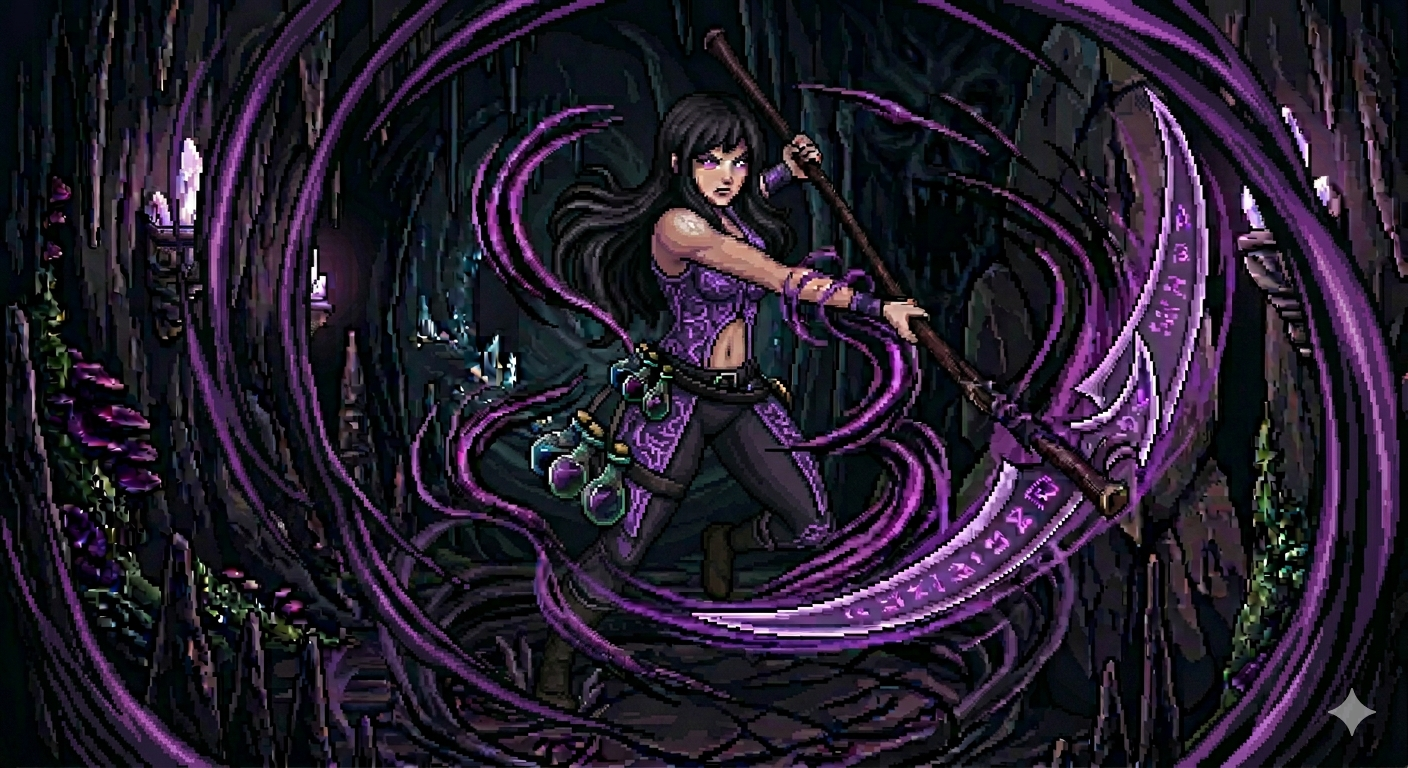
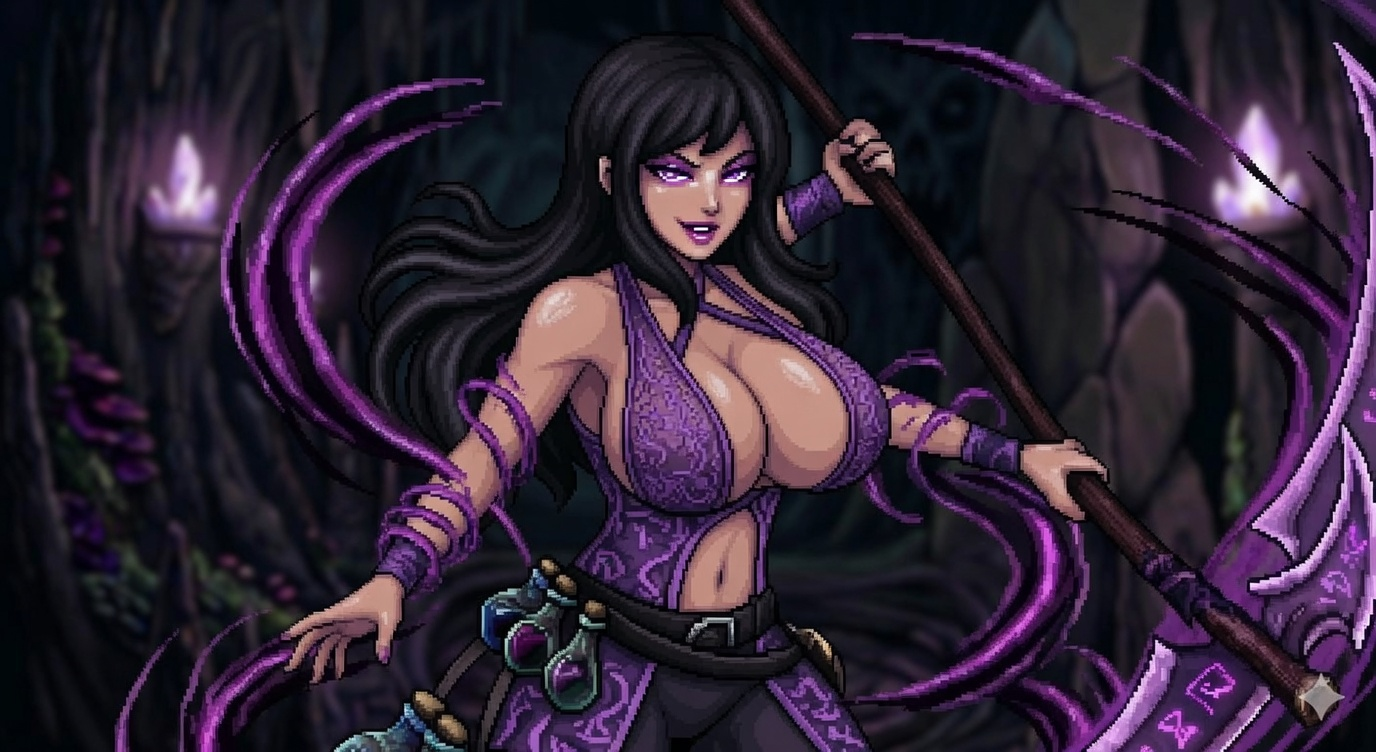
RPG: 일러 5종 교체 + 5스테이지 「태초의 어둠」 보스 추가 + TRUE ENDING
[일러 교체]
- 사신 reaper.png — 보랏빛 낫 + 검은머리 사신 (신규 일러)
- 마녀 witch.png — 은발 + 보랏빛 화염 (신규 일러)
- 상점 merchant.png — 푸른 크리스탈 가게 + 자홍색 드레스 (신규 일러)
- 부상 mage-wounded.png — 무릎 꿇은 부상 일러 (50%↓ 컷인용 신규)

[5스테이지 「태초의 어둠」 — 진짜 어둠]
- 신규 ENEMIES.darkOrigin — hp 520, atk 36, sprite dark-origin.png
- 4층 엔딩 「와다오」 떡밥의 정체 — 이그니아의 어머니 자청
- BOSS_STORIES.darkOrigin
  · intro 11장면: 이그니아의 「불꽃」을 쥐여준 자, 어머니라 자청, 회수 시도
  · outro 5장면: 어머니 부정 + 어둠 완전 소멸 + 새벽빛
- 보스 스킬 3종:
  · 태초의 속삭임 (interval 3) — 마법 봉인 2턴 + 출혈 (maxHp 7%)
  · 어둠의 손길 (interval 5) — hero HP 25% 데미지 + 그만큼 자기 회복 (불꽃 회수)
  · 종말의 의식 (HP 40% 1회) — atk×2.0 데미지 + 사형선고 5턴 즉시 발동
- ENEMY_POOLS 5층 (normal/elite) 추가

[TRUE ENDING]
- 기존 「TO BE CONTINUED」 (4층 끝) 제거
- 새 TRUE_ENDING — 5층 클리어 후 6장면 컷씬:
  · 태초의 어둠 소멸 → 어머니 부정 → 동굴 끝 새벽빛 → "정말로 끝이다"
- 결과 화면: TRUE ENDING / 도달 층 5 / 5

[기타]
- 층 cap 4 → 5
- SPEAKERS.darkOrigin / SW 프리캐시 / VERSION/캐시 v57-floor5-darkorigin

diff --git a/rpg/game.js b/rpg/game.js
@@ -5,7 +5,7 @@
 const $ = id => document.getElementById(id);
 
 // 빌드 버전 — sw.js의 캐시 키와 같이 올려준다
-const VERSION = 'v56-skill-tree-visual';
+const VERSION = 'v57-floor5-darkorigin';
 
 // ===== 영웅 데이터 =====
 const HEROES = [
@@ -85,6 +85,8 @@ const ENEMIES = {
   dragon:   { name: '심연의 드래곤',   hp: 380, atk: 30, emoji: '🐉', boss: true, sprite: '../assets/bosses/dragon-human.png' },
   // 4층 보스 페이즈 2 — 진정한 드래곤 모습
   'dragon-true': { name: '심연의 드래곤', hp: 460, atk: 36, emoji: '🐉', boss: true, sprite: '../assets/bosses/dragon-true.png' },
+  // 5층 보스 — 「태초의 어둠」 (진짜 어둠 — 4층 엔딩의 속삭임)
+  darkOrigin: { name: '태초의 어둠', hp: 520, atk: 36, emoji: '🌑', boss: true, sprite: '../assets/bosses/dark-origin.png' },
 };
 
 // 층별 등장 풀 — 새 몬스터가 누적되며 점차 강력해짐
@@ -94,12 +96,14 @@ const ENEMY_POOLS = {
     2: ['orc', 'rogue', 'shield', 'drone', 'wraith', 'assassin', 'cultist'],
     3: ['rogue', 'drone', 'wraith', 'assassin', 'cultist', 'imp', 'reaperMinion', 'demon', 'charmedSoul'],
     4: ['imp', 'reaperMinion', 'demon', 'charmedSoul', 'drake', 'abyssWalker', 'shadowBeast', 'voidPriest'],
+    5: ['demon', 'drake', 'abyssWalker', 'shadowBeast', 'voidPriest'],
   },
   elite: {
     1: ['knight', 'shield', 'drone'],
     2: ['knight', 'darkKnight', 'shield', 'drone'],
     3: ['knight', 'darkKnight', 'lichApprentice'],
     4: ['darkKnight', 'lichApprentice', 'wyvern'],
+    5: ['darkKnight', 'lichApprentice', 'wyvern'],
   },
 };
 
@@ -469,6 +473,7 @@ const SPEAKERS = {
   reyna:  '../assets/heroes/merchant.png',
   luna:   '../assets/heroes/luna.png',
   reaper: '../assets/bosses/reaper.png',
+  darkOrigin: '../assets/bosses/dark-origin.png',
 };
 
 // ===== 인연각성 (필살기) =====
@@ -698,6 +703,41 @@ const BOSS_SKILLS = {
         log('☠ 사형선고 — 5턴 후 사형 집행 (보스를 처치하면 해제)', 'enemy');
       } },
   ],
+  darkOrigin: [
+    // 태초의 속삭임 — 마법 봉인 + 출혈 동시
+    { name: '태초의 속삭임', interval: 3,
+      quote: '"…잠들어. 모든 것은 — 끝이야."',
+      apply(b, r) {
+        b.heroSkillBlock = 2;
+        const dmg = Math.max(8, Math.floor(r.maxHp * 0.07));
+        b.heroBleed = { dmg, turns: 3 };
+        log(`🌑 태초의 속삭임 — 2턴 마법 봉인 + 매 턴 ${dmg} 출혈`, 'enemy');
+      } },
+    // 어둠의 손길 — 현재 HP 25% 데미지 + 그만큼 보스 회복
+    { name: '어둠의 손길', interval: 5,
+      quote: '"네 불꽃 — 내가 — 다시 거두어 가지."',
+      apply(b, r) {
+        const dmg = Math.max(1, Math.floor(r.hp * 0.25));
+        log(`🖤 어둠의 손길 → ${dmg} (불꽃 회수)`, 'enemy');
+        dealDamageToHero(dmg);
+        const me = b.enemies.find(e => e.id === 'darkOrigin');
+        if (me && me.hp > 0) {
+          me.hp = Math.min(me.maxHp, me.hp + dmg);
+          showDmgNum('enemy', dmg, 'heal');
+          log(`태초의 어둠 회복 → +${dmg}`, 'enemy');
+          refreshBattleUI();
+        }
+      } },
+    // 종말의 의식 — HP 40% 1회. 큰 광역 데미지 + 사형선고 즉시 부여
+    { name: '종말의 의식', hpThreshold: 0.4, oneShot: true,
+      quote: '"이 세계는 — 너와 함께 — 사라진다."',
+      apply(b, r) {
+        const dmg = Math.round(b.enemies.find(e => e.id === 'darkOrigin').atk * 2.0);
+        log(`🌑 종말의 의식 → ${dmg} + 사형선고 발동`, 'enemy');
+        dealDamageToHero(dmg);
+        if (game.run.hp > 0) b.deathSentence = 5;
+      } },
+  ],
   'dragon-true': [
     { name: '심연의 숨결', interval: 3,
       quote: '"어둠 속으로 — 가라앉아라."',
@@ -840,10 +880,49 @@ const BOSS_STORIES = {
       ],
     },
   },
+  // 5층 — 태초의 어둠 (진짜 어둠)
+  darkOrigin: {
+    intro: [
+      { img: '../assets/story/prologue-1-darkness.png',
+        text: '드래곤이 사라진 자리 — 그러나 동굴은 아직 끝나지 않았다.\n\n바닥의 균열이 입을 벌리고, 더 깊은 어둠이 입김을 토한다.' },
+      { img: '../assets/bosses/dark-origin.png',
+        text: '그 안에서 — 후드를 깊이 눌러쓴 한 여인이 천천히 걸어 나온다.\n그녀의 뒤로, 거대한 해골이 음영처럼 떠올라 그녀를 굽어본다.' },
+      { speaker: 'darkOrigin',
+        text: '태초의 어둠 — "어서 오렴, 작은 불꽃아."' },
+      { speaker: 'ignia',
+        text: '이그니아 — "…너는, 그자인가."' },
+      { speaker: 'darkOrigin',
+        text: '태초의 어둠 — "후훗, 「그자」… 라고 — 다들 그렇게 부르더구나.\n나는 — 너의 어머니."' },
+      { speaker: 'ignia',
+        text: '이그니아 — "…뭐?"' },
+      { speaker: 'darkOrigin',
+        text: '태초의 어둠 — "네 손끝의 그 불꽃 — 내가 너에게 쥐여준 것이지.\n어둠을 태우라고 보낸 — 가장 작고, 가장 뜨거운 잔재."' },
+      { speaker: 'darkOrigin',
+        text: '태초의 어둠 — "…그러나, 나의 작은 불씨야.\n어둠을 다 태우고 나면, 너는 — 너 자신마저 태워버릴 거다."' },
+      { speaker: 'ignia',
+        text: '이그니아 — "…!\n어머니라고… 나에게 거짓을…"' },
+      { speaker: 'darkOrigin',
+        text: '태초의 어둠 — "거짓이 아니란다. — 자, 이리 오렴.\n네가 내 품으로 돌아와야, 이 세계가 — 다시 잠들 수 있어."' },
+      { speaker: 'ignia',
+        text: '이그니아의 손끝 불꽃이 떨린다. — 그러나, 다시 거세게 일어선다.\n\n이그니아 — "…너부터 — 내가 태워주마."' },
+    ],
+    outro: [
+      { img: '../assets/bosses/dark-origin.png',
+        text: '태초의 어둠이 무너져 내린다.\n그 거대한 그림자가 — 마침내, 빛 속으로 흩어진다.' },
+      { speaker: 'darkOrigin',
+        text: '태초의 어둠 — "잘… 했다, 작은 불꽃아…\n나는 — 너의 끝이자 — 너의 시작이었으니…"' },
+      { speaker: 'ignia',
+        text: '이그니아 — "어머니라는 말 — 다시는 듣지 않을 거다.\n\n나는, 나로서 — 이 세계를 살아갈 거야."' },
+      { img: '../assets/story/prologue-1-darkness.png',
+        text: '어둠이 마침내 — 완전히 사라졌다.\n\n동굴 끝 너머, 새벽빛이 새어든다.' },
+      { speaker: 'ignia',
+        text: '이그니아 — "이제, 진짜로 — 끝이다."' },
+    ],
+  },
 };
 
 function getBossStoryByFloor(floor) {
-  const id = ['giant', 'lich', 'reaper', 'dragon'][floor - 1] || 'dragon';
+  const id = ['giant', 'lich', 'reaper', 'dragon', 'darkOrigin'][floor - 1] || 'darkOrigin';
   return BOSS_STORIES[id];
 }
 
@@ -1016,7 +1095,7 @@ function nextStep() {
   // 직전 노드가 보스였으면 → 다음 층
   if (r.currentNode && r.currentNode.kind === 'boss') {
     r.floor++;
-    if (r.floor > 4) { endRun(true); return; }
+    if (r.floor > 5) { endRun(true); return; }
     r.roomNum = 1;
     r.shopsOfferedThisFloor = 0;
     r.bondUsedThisFloor = false;
@@ -1106,7 +1185,7 @@ function startBattle(kind, node) {
   let ePool;
   if (kind === 'normal') ePool = (ENEMY_POOLS.normal[f] || ENEMY_POOLS.normal[4]);
   else if (kind === 'elite') ePool = (ENEMY_POOLS.elite[f] || ENEMY_POOLS.elite[4]);
-  else if (kind === 'boss') ePool = [['giant', 'lich', 'reaper', 'dragon'][f - 1] || 'dragon'];
+  else if (kind === 'boss') ePool = [['giant', 'lich', 'reaper', 'dragon', 'darkOrigin'][f - 1] || 'darkOrigin'];
   else if (kind === 'mimic') ePool = ['mimic'];
   game.run.currentNode = node || { kind, rewardCat: null, rewardRarity: null };
   // 층/엘리트 스케일링 — 층마다 +50%, 엘리트는 추가 +50%
@@ -3264,17 +3343,18 @@ function endRun(victory) {
   saveMeta();
 
   // 4층까지 클리어한 경우 — 「계속」 엔딩 (숨겨진 진실을 암시)
-  const isFinalVictory = victory && r.floor > 4;
-  if (isFinalVictory) {
-    playStorySequence(FINAL_ENDING, () => {
-      $('result-title').textContent = 'TO BE CONTINUED';
+  // 5층까지 모두 클리어 — TRUE ENDING
+  const isTrueVictory = victory && r.floor > 5;
+  if (isTrueVictory) {
+    playStorySequence(TRUE_ENDING, () => {
+      $('result-title').textContent = 'TRUE ENDING';
       $('result-title').className = 'victory';
-      $('result-text').innerHTML = '4층까지의 여정은 끝났다… 그러나 진정한 어둠은, 아직 — <em>잠들어있다</em>.';
+      $('result-text').innerHTML = '진정한 어둠마저 — 이그니아의 불꽃이 태웠다. 새벽이 밝았다.';
       $('result-stats').innerHTML = `
         <div class="stat"><span class="k">처치</span><span class="v">${r.enemiesDefeated}</span></div>
         <div class="stat"><span class="k">보스</span><span class="v">${r.bossesDefeated}</span></div>
         <div class="stat"><span class="k">획득 정수</span><span class="v">+${earned}</span></div>
-        <div class="stat"><span class="k">도달 층</span><span class="v">4 / ?</span></div>`;
+        <div class="stat"><span class="k">도달 층</span><span class="v">5 / 5</span></div>`;
       showScreen('result');
     }, { finalLabel: '계속 ▶' });
     return;
@@ -3293,24 +3373,20 @@ function endRun(victory) {
   showScreen('result');
 }
 
-// 4층 클리어 후 — 「계속」 엔딩 컷씬
-const FINAL_ENDING = [
-  { img: '../assets/bosses/dragon-true.png',
-    text: '거대한 어둠의 비룡이 잿더미가 되어 무너진다.\n동굴은 — 처음으로, 완전한 침묵에 잠긴다.' },
+// 5층 클리어 후 — TRUE ENDING 컷씬
+const TRUE_ENDING = [
+  { img: '../assets/bosses/dark-origin.png',
+    text: '태초의 어둠이 — 마지막 잔재마저 흩어진다.\n검은 후드 안의 미소가, 마침내 꺼진다.' },
   { speaker: 'ignia',
-    text: '이그니아 — "이게… 끝인가."' },
+    text: '이그니아 — "어머니라는 말은 — 다시는 듣지 않겠다.\n나는, 나로서, 살아갈 거야."' },
   { img: '../assets/story/prologue-3-cave.png',
-    text: '— 그러나.\n잿더미 사이로, 작은 속삭임이 새어나온다.' },
-  { img: '../assets/story/prologue-1-darkness.png',
-    text: '"…잘 했어, 작은 불꽃아."' },
-  { img: '../assets/story/prologue-1-darkness.png',
-    text: '"이제 — 진짜 어둠을 보러, 와다오."' },
+    text: '동굴 끝의 균열 너머로 — 처음으로 새벽빛이 새어든다.' },
+  { img: '../assets/story/prologue-3-cave.png',
+    text: '발걸음을 옮긴다.\n불꽃은 — 손끝에서 작게, 그러나 흔들림 없이 타오른다.' },
   { speaker: 'ignia',
-    text: '이그니아의 손끝 불꽃이 — 처음으로, 흔들린다.\n\n이그니아 — "…누구냐."' },
-  { img: '../assets/story/prologue-1-darkness.png',
-    text: '대답은 — 들려오지 않는다.\n오직, 끝없는 어둠이 — 미소 짓고 있을 뿐.' },
-  { img: '../assets/story/prologue-1-darkness.png',
-    text: '— 진정한 어둠은, 아직 — 잠들어있다.\n\n계속…' },
+    text: '이그니아 — "이번에는 — 정말로 끝이다."' },
+  { img: '../assets/story/prologue-3-cave.png',
+    text: '— 그리고, 새벽.\n\nTRUE ENDING' },
 ];
 
 // ============================================================

diff --git a/rpg/sw.js b/rpg/sw.js
@@ -1,4 +1,4 @@
-const CACHE = 'ignia-v56-skill-tree-visual';
+const CACHE = 'ignia-v57-floor5-darkorigin';
 const ASSETS = [
   './',
   './index.html',
@@ -22,6 +22,7 @@ const ASSETS = [
   '../assets/bosses/dryad.png',
   '../assets/bosses/witch.png',
   '../assets/bosses/reaper.png',
+  '../assets/bosses/dark-origin.png',
   '../assets/bosses/dragon-human.png',
   '../assets/bosses/dragon-true.png',
   '../assets/scenes/spring.png',
